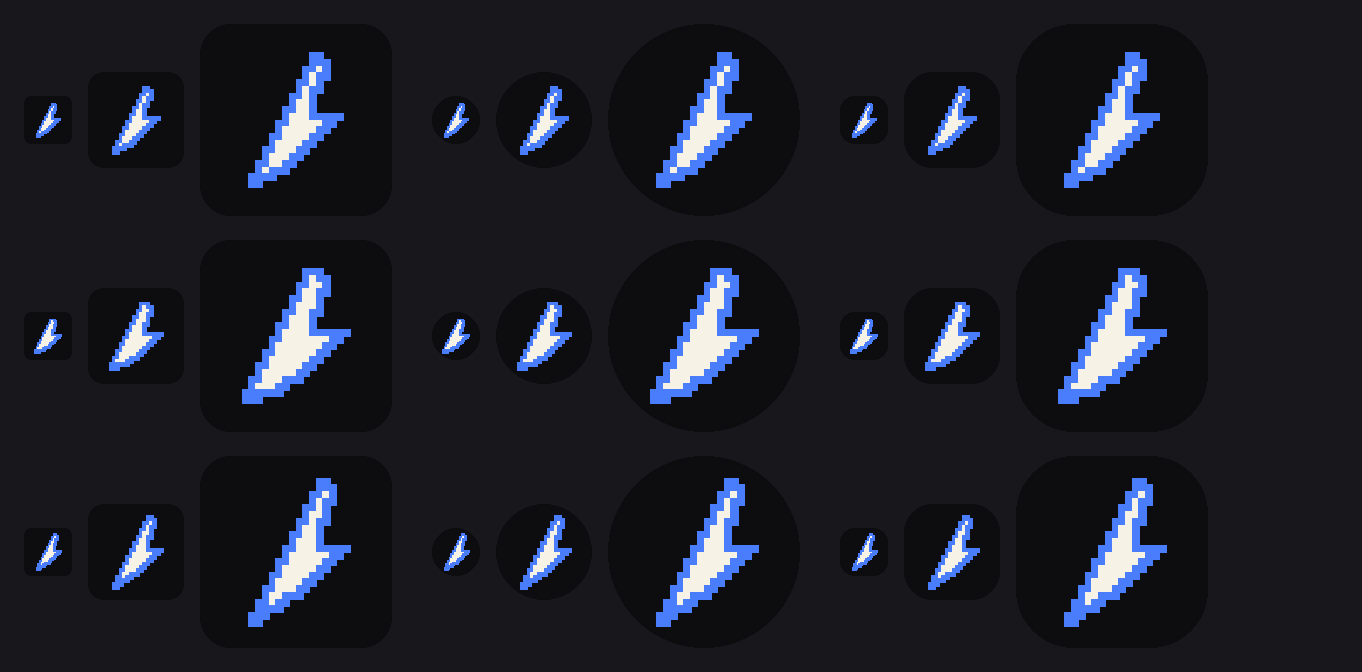
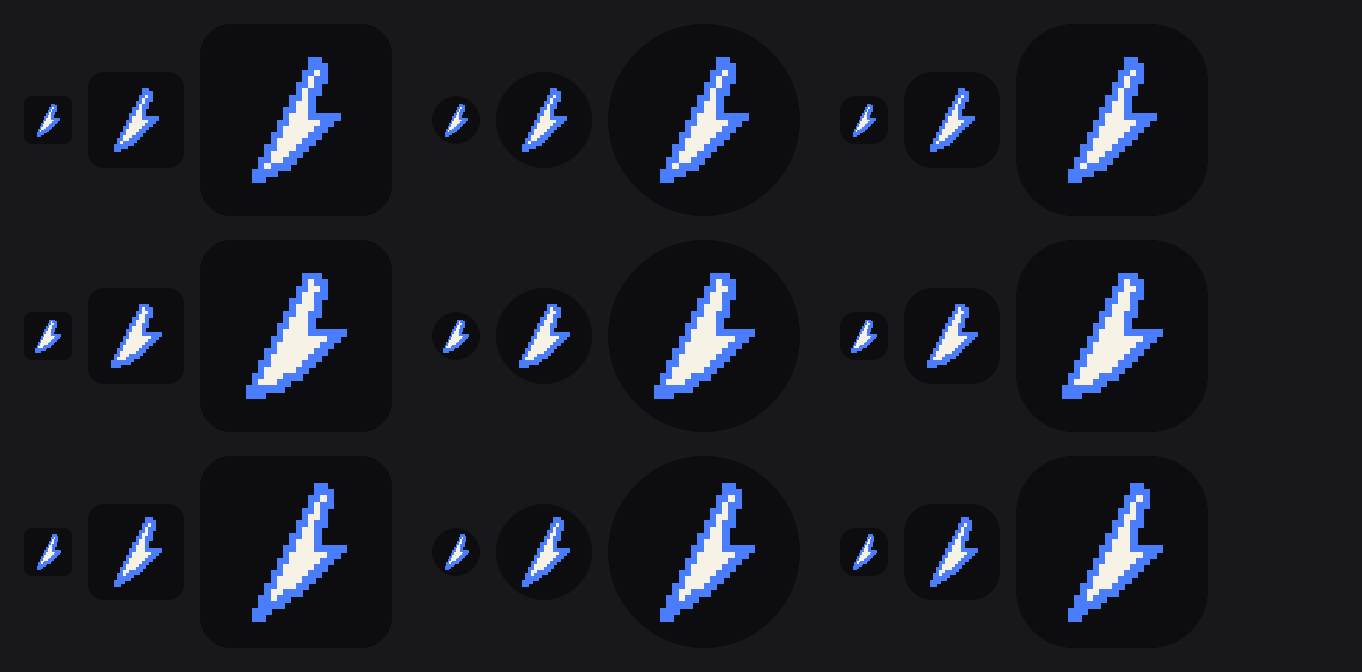
Иконка: масштаб символа как у f0kus и m0ney
Замерено по их ассетам: символ занимает 0.56×0.66 холста у обычной
иконки и 0.34×0.40 у адаптивного слоя. В ряду на домашнем экране
разный вес иконок ломает ощущение семьи сильнее, чем разная форма.

diff --git a/tools/make_icons.py b/tools/make_icons.py
@@ -27,6 +27,13 @@ BLUE = (74, 125, 251, 255)
 CREAM = (247, 242, 230, 255)
 WHITE = (255, 255, 255, 255)
 
+# Символ занимает столько же холста, сколько в f0kus и m0ney (замерено по
+# их ассетам: 0.56×0.66 у обычной иконки, 0.34×0.40 у адаптивного слоя).
+# В ряду на домашнем экране разный «вес» иконок ломает ощущение семьи
+# сильнее, чем разная форма.
+LEGACY_SCALE = 0.78
+ADAPTIVE_SCALE = 0.48
+
 
 class Art:
     """Силуэт по сетке. Контур и заливка расставляются автоматически:
@@ -183,7 +190,7 @@ def render(concept, px, with_bg=True, mono=False, symbol_scale=1.0, rounded=Fals
 def _shaped(concept, px, shape):
     """Формы, в которых Android показывает иконку: квадрат со скруглением,
     круг (round) и сквиркл адаптивной маски."""
-    icon = render(concept, px, symbol_scale=0.84)
+    icon = render(concept, px, symbol_scale=LEGACY_SCALE)
     mask = Image.new("L", (px, px), 0)
     d = ImageDraw.Draw(mask)
     if shape == "square":
@@ -230,9 +237,9 @@ def apply(concept, res_dir):
     for density, size in DENSITIES.items():
         d = os.path.join(res_dir, f"mipmap-{density}")
         os.makedirs(d, exist_ok=True)
-        render(concept, size, rounded=True, symbol_scale=0.86).save(
+        render(concept, size, rounded=True, symbol_scale=LEGACY_SCALE).save(
             os.path.join(d, "ic_launcher.png"))
-        icon = render(concept, size, symbol_scale=0.86)
+        icon = render(concept, size, symbol_scale=LEGACY_SCALE)
         mask = Image.new("L", (size, size), 0)
         ImageDraw.Draw(mask).ellipse([0, 0, size - 1, size - 1], fill=255)
         icon.putalpha(mask)
@@ -241,9 +248,9 @@ def apply(concept, res_dir):
         d = os.path.join(res_dir, f"mipmap-{density}")
         os.makedirs(d, exist_ok=True)
         # 66% полотна: остальное — safe zone под адаптивные маски.
-        render(concept, size, with_bg=False, symbol_scale=0.66).save(
+        render(concept, size, with_bg=False, symbol_scale=ADAPTIVE_SCALE).save(
             os.path.join(d, "ic_launcher_foreground.png"))
-        render(concept, size, with_bg=False, mono=True, symbol_scale=0.66).save(
+        render(concept, size, with_bg=False, mono=True, symbol_scale=ADAPTIVE_SCALE).save(
             os.path.join(d, "ic_launcher_monochrome.png"))
     print(f"ассеты иконки «{concept}» записаны в {res_dir}")
 
